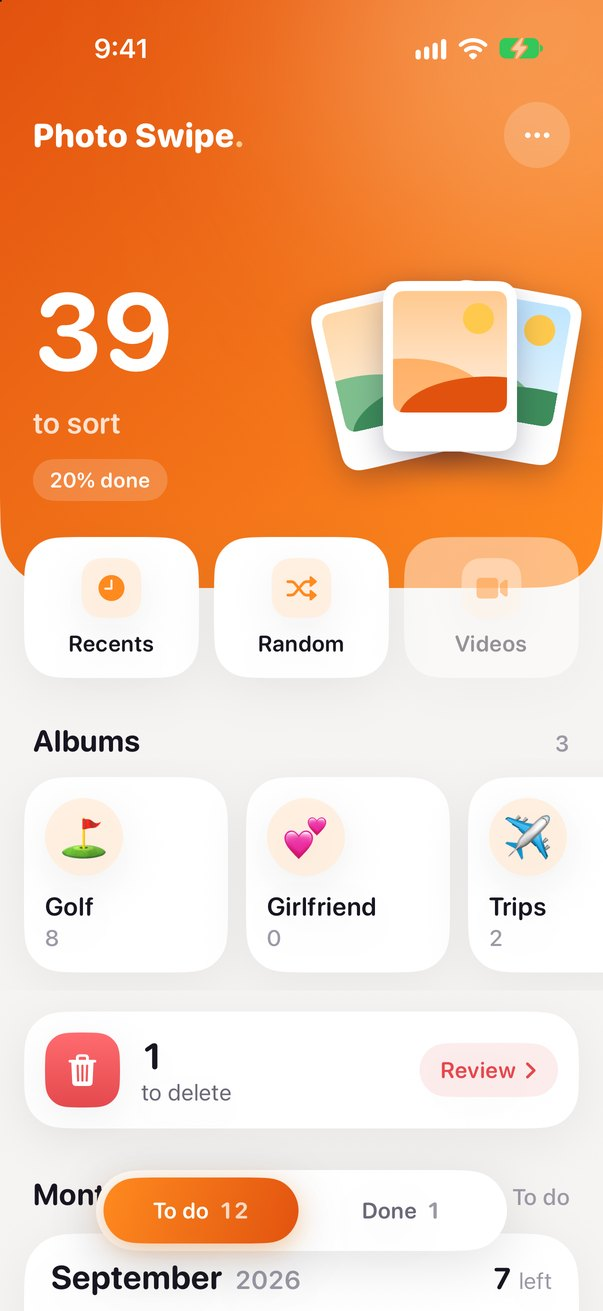
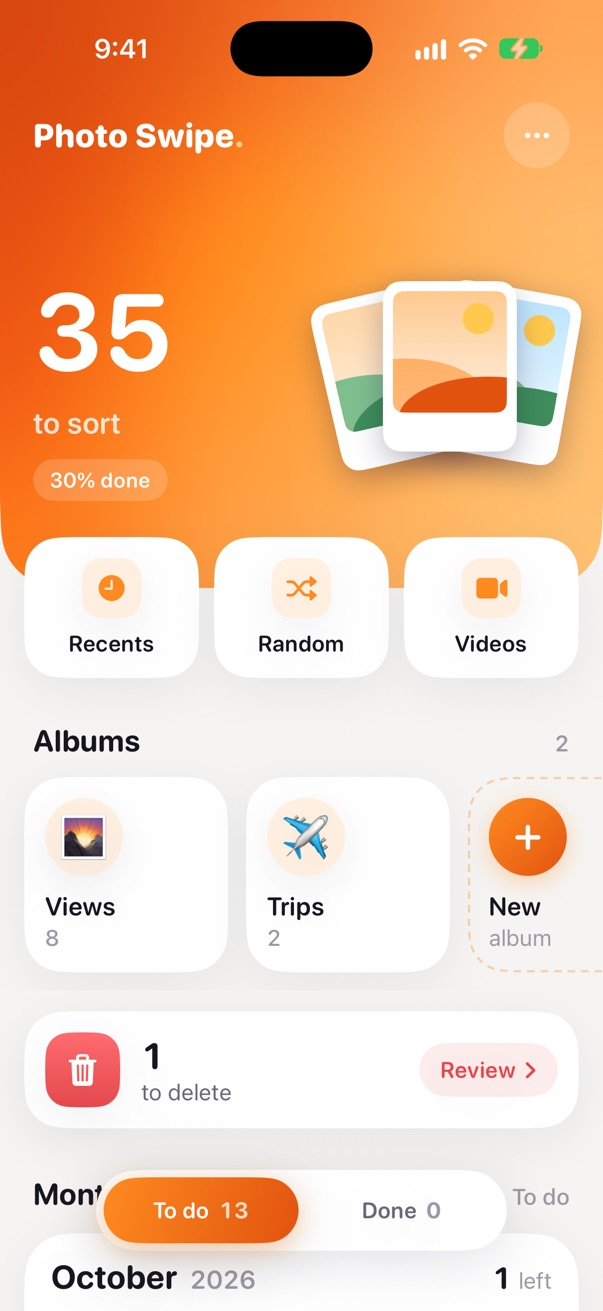
Screenshots: albums renamed to fit the photos (Views, Trips), no private album
Simulator test library: Golf is now a 🌄 Views album (its photos are scenery) and
the empty private album is off the rail. New Library and Swipe shots for the
README; new Swipe and Album shots on the landing page. Superseded v16 shots are
kept out of deploys.

diff --git a/site/index.html b/site/index.html
@@ -272,7 +272,7 @@
             </div>
             <div class="prog"><i id="prog"></i></div>
             <div class="deck" id="deck"></div>
-            <div class="rail" aria-hidden="true"><span>🏞</span><span>✈</span><span>🌸</span><span class="add">+</span></div>
+            <div class="rail" aria-hidden="true"><span>🌄</span><span>✈</span><span>🌸</span><span class="add">+</span></div>
             <div class="ctrls">
               <button class="x" id="btn-bin" aria-label="Bin this photo"><svg width="22" height="22" viewBox="0 0 24 24" fill="none" stroke="currentColor" stroke-width="2.6" stroke-linecap="round"><path d="M6 6l12 12M18 6 6 18"/></svg></button>
               <button class="sm" id="btn-undo" aria-label="Undo"><svg width="18" height="18" viewBox="0 0 24 24" fill="none" stroke="currentColor" stroke-width="2.4" stroke-linecap="round" stroke-linejoin="round"><path d="M9 14 4 9l5-5"/><path d="M4 9h10.5a5.5 5.5 0 0 1 0 11H11"/></svg></button>
@@ -304,9 +304,9 @@
       <h2 class="sec-title reveal">Have a look <em>inside.</em></h2>
       <div class="shots">
         <div class="shot reveal-up"><div class="word">Months.</div><div class="mini tilt"><img src="img/v16-months.jpg" alt="The library, split into months" loading="lazy"></div></div>
-        <div class="shot reveal-up"><div class="word">Swipe.</div><div class="mini tilt"><img src="img/v16-swipe.jpg" alt="Swiping through a month" loading="lazy"></div></div>
+        <div class="shot reveal-up"><div class="word">Swipe.</div><div class="mini tilt"><img src="img/v17-swipe.jpg" alt="Swiping through an album" loading="lazy"></div></div>
         <div class="shot reveal-up"><div class="word">Review.</div><div class="mini tilt"><img src="img/v16-review.jpg" alt="The review grid before deleting" loading="lazy"></div></div>
-        <div class="shot reveal-up"><div class="word">Albums.</div><div class="mini tilt"><img src="img/v16-album.jpg" alt="An emoji album" loading="lazy"></div></div>
+        <div class="shot reveal-up"><div class="word">Albums.</div><div class="mini tilt"><img src="img/v17-album.jpg" alt="An emoji album of views" loading="lazy"></div></div>
       </div>
     </div>
   </section>
